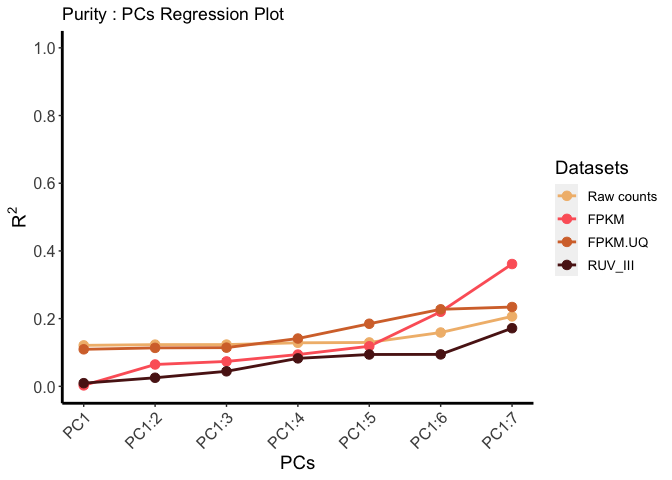
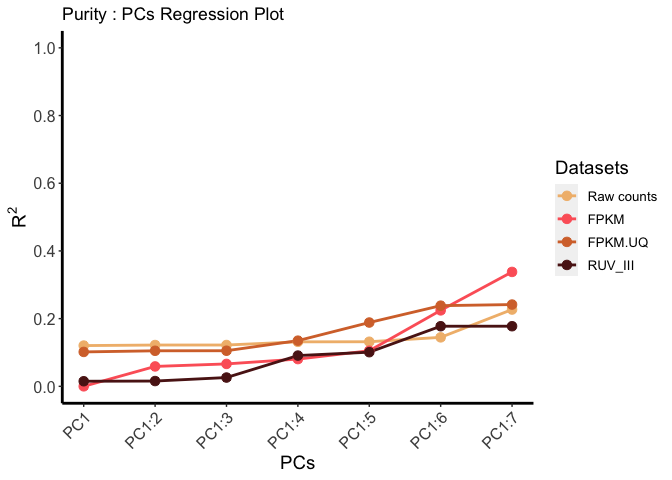
Updating package function description and examples.

Changed region(s): [[0.0938, 0.5938, 0.7812, 0.8125], [0.7188, 0.5312, 0.7812, 0.5938]]

diff --git a/README.md b/README.md
@@ -76,7 +76,7 @@ filtered.data1 <- low.genes.filter(data=filtered.data,gene_count = 20,sample_siz
 ## Purity Filter - Filter Samples based on Tumor Purity
 
 ``` r
-filtered.data2 <- purity.filter(data= filtered.data1,purity_cutoff= 0.496)
+filtered.data2 <- purity.filter(data= filtered.data1,purity_cutoff= 0.50)
 ```
 
 ## Library Size Filter
@@ -180,13 +180,13 @@ combined_data <- SummarizedExperiment(assays = list(HTseq_counts = raw.count, HT
 
 combined_data
 #> class: SummarizedExperiment 
-#> dim: 96 431 
+#> dim: 96 411 
 #> metadata(0):
 #> assays(4): HTseq_counts HTseq_FPKM HTseq_FPKM.UQ RUV_III
 #> rownames(96): ENSG00000000003 ENSG00000000005 ... ENSG00000005469
 #>   ENSG00000005471
 #> rowData names(40): gene_id.v gene_id ... keep.cancer keep.normal
-#> colnames(431): TCGA-A8-A06Z-01A-11R-A00Z-07
+#> colnames(411): TCGA-A8-A06Z-01A-11R-A00Z-07
 #>   TCGA-AN-A03Y-01A-21R-A00Z-07 ... TCGA-AC-A4ZE-01A-11R-A41B-07
 #>   TCGA-E9-A54Y-01A-11R-A466-07
 #> colData names(4115): Sample sample.id.b_mda ... purity_HTseq_FPKM
